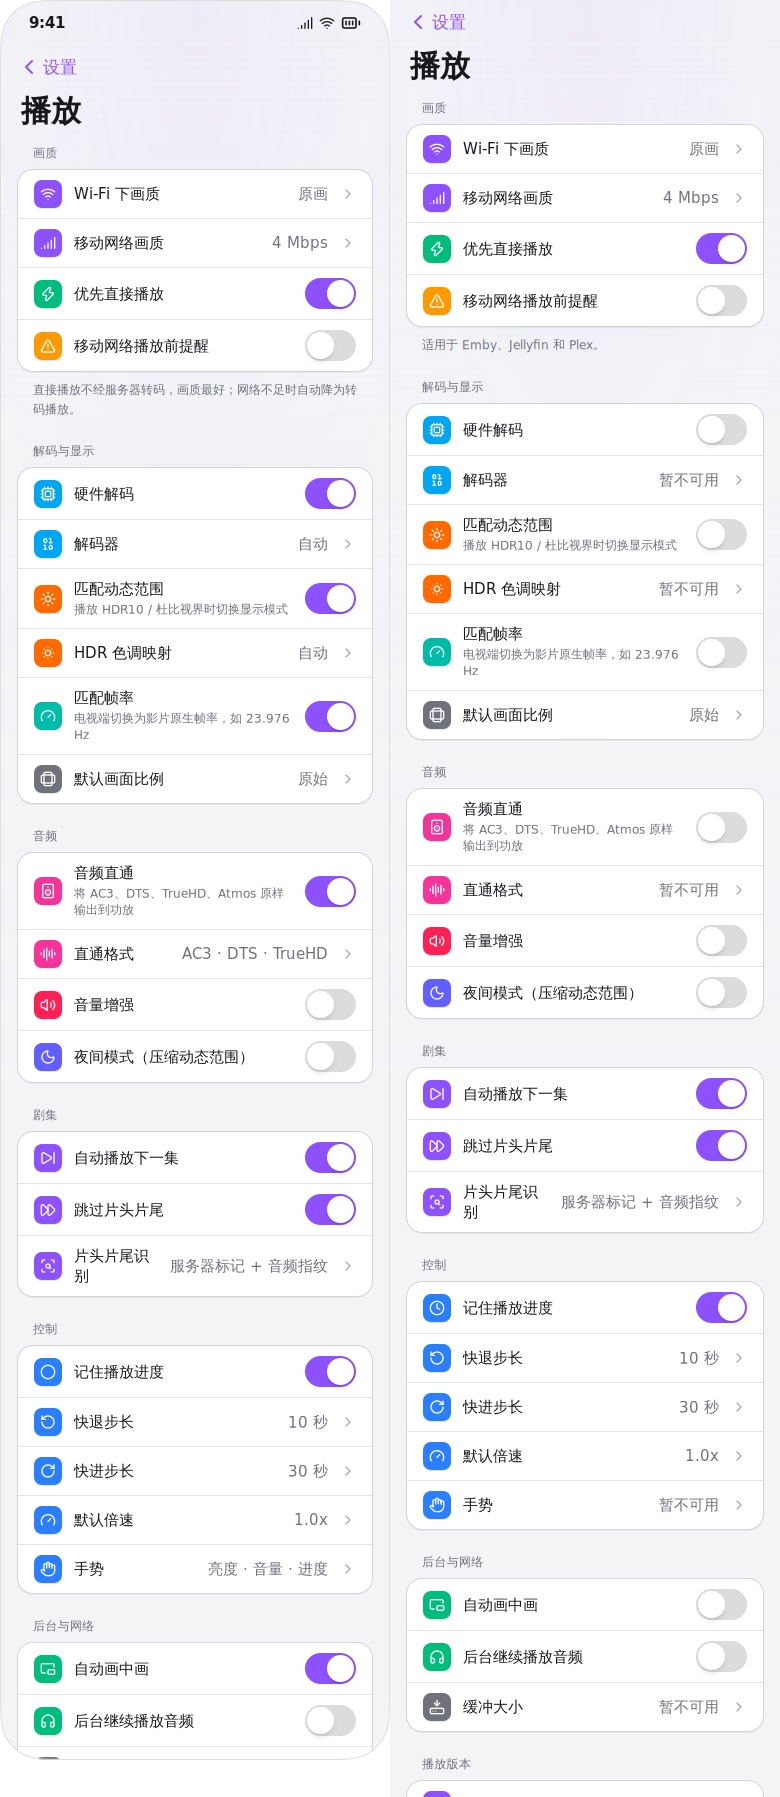
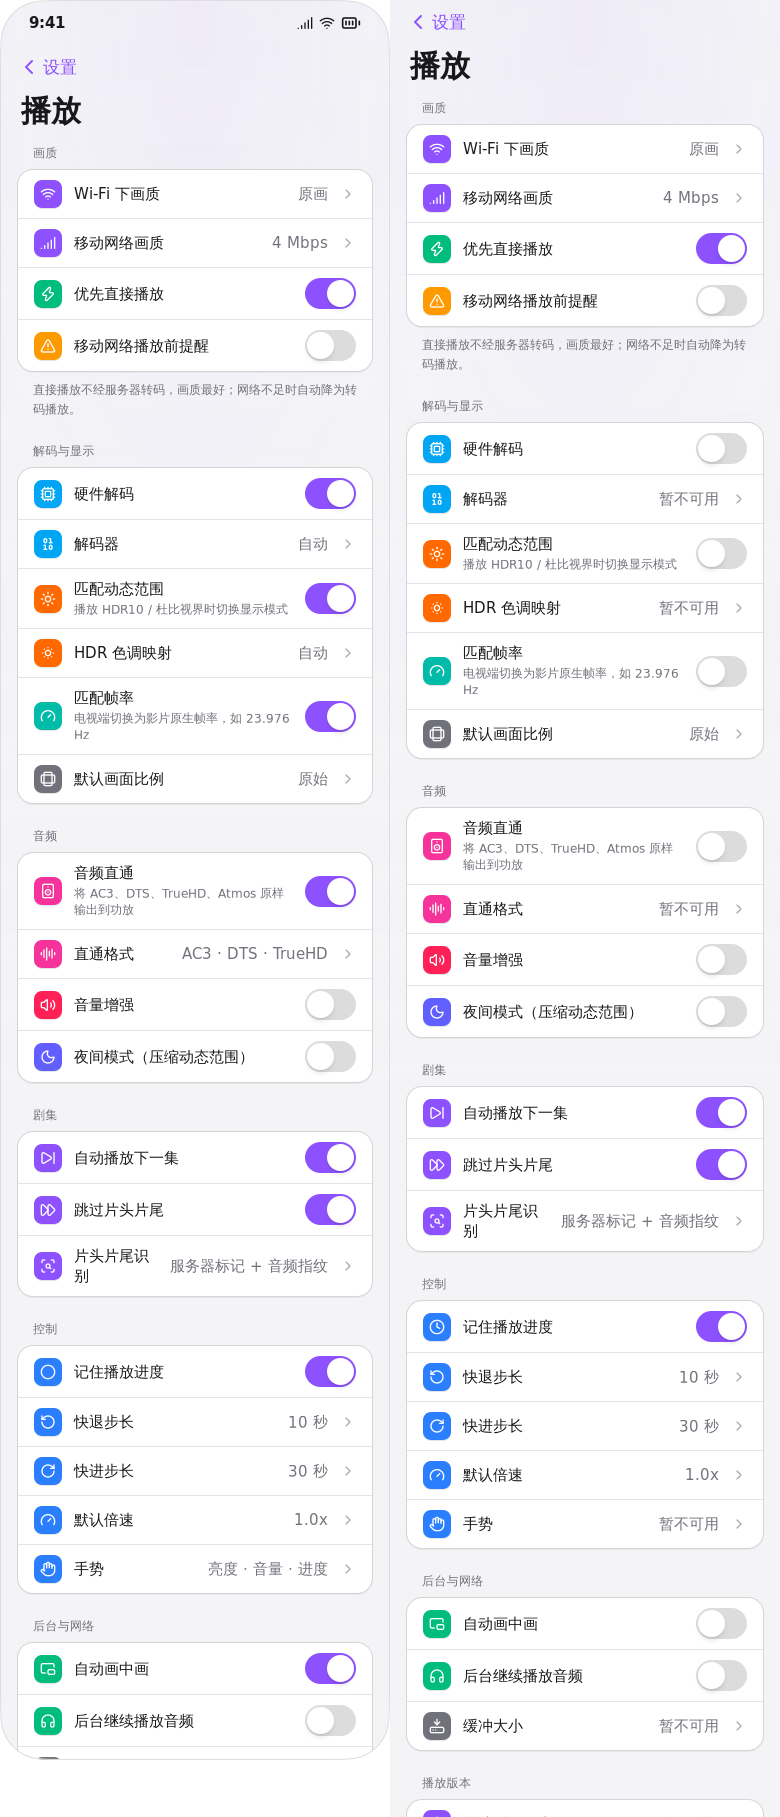
Apply the shared direct-play preference to streaming

diff --git a/player_quality_test.go b/player_quality_test.go
@@ -6,6 +6,7 @@ import (
 	"os"
 	"os/exec"
 	"slices"
+	"strings"
 	"testing"
 	"time"
 
@@ -142,6 +143,67 @@ func TestDockerPlaybackHeightLimit(t *testing.T) {
 				t.Fatalf("expected a decodable stream of at most %dp, got %+v, %v", height, measured, err)
 			}
 			t.Logf("decoded %dp from the %dp original", measured.Streams[0].Height, original.Rendition.Height)
+		})
+	}
+}
+
+func TestDockerPreferredPlaybackMethod(t *testing.T) {
+	if os.Getenv("WAYGU_TEST_SERVERS") != "1" || nsgotest.Target() != "" {
+		t.Skip("requires the Docker media servers and the simulated playback surface")
+	}
+	for _, provider := range []string{"emby", "jellyfin", "plex"} {
+		t.Run(provider, func(t *testing.T) {
+			for _, mode := range []struct {
+				name, preferences, container string
+			}{
+				{"direct", "", "mp4"},
+				{"transcode", `{"DisableDirectPlay":true}`, "hls"},
+			} {
+				t.Run(mode.name, func(t *testing.T) {
+					config, secrets := homeReviewSources(t)
+					_, item := reviewFixtureItem(t, config, secrets, provider, "Waygu Test Movie")
+					config[playbackPreferencesKey] = mode.preferences
+					app := nsgotest.Start(t, func(cx *core.Scope) core.Node {
+						shellIdiom.Provide(cx, core.IdiomPhone)
+						return Root(cx)
+					}, nsgotest.Size(390, 800), nsgotest.Offscreen(),
+						nsgotest.Storage(config), nsgotest.Secrets(secrets))
+					app.Press("id:tab-search")
+					app.Type("id:search-query", item.Title)
+					app.Press("id:search-source-" + provider)
+					result := "id:title-" + provider + "-" + item.ID
+					app.WaitFor(result, 10*time.Second)
+					app.Press(result)
+					app.WaitFor("id:detail-play", 10*time.Second)
+					app.Press("id:detail-play")
+					app.WaitFor("id:video-player", 15*time.Second)
+					video := app.FindMounted("id:video-player").Video
+					ctx, cancel := context.WithTimeout(t.Context(), 25*time.Second)
+					defer cancel()
+					raw, err := exec.CommandContext(ctx, "ffprobe", "-v", "error", "-select_streams", "v:0",
+						"-read_intervals", "%+1", "-show_frames",
+						"-show_entries", "format=format_name:stream=codec_name:frame=key_frame", "-of", "json", video.Source).Output()
+					if err != nil {
+						t.Fatalf("probe the player's stream: %v", err)
+					}
+					var measured struct {
+						Format struct {
+							Name string `json:"format_name"`
+						}
+						Streams []struct {
+							Codec string `json:"codec_name"`
+						}
+						Frames []struct{}
+					}
+					if err := json.Unmarshal(raw, &measured); err != nil || len(measured.Streams) != 1 || len(measured.Frames) == 0 ||
+						measured.Streams[0].Codec != "h264" || !slices.Contains(strings.Split(measured.Format.Name, ","), mode.container) {
+						t.Fatalf("wanted H.264 in %s, got %s (%v)", mode.container, raw, err)
+					}
+					app.Play("id:video-player", core.VideoInfo{Duration: item.Duration})
+					app.Press("id:close-player")
+					t.Logf("decoded H.264 in %s", mode.container)
+				})
+			}
 		})
 	}
 }

diff --git a/locales/catalog_gen.go b/locales/catalog_gen.go
@@ -677,6 +677,7 @@ const (
 	textSettingsWifiQuality
 	textSettingsCellularQuality
 	textSettingsPreferDirect
+	textSettingsDirectPlayHint
 	textSettingsCellularWarning
 	textPlaybackCellularConfirmTitle
 	textPlaybackCellularConfirmDescription
@@ -1556,6 +1557,7 @@ var keyOfText = [numTexts]string{
 	"settingsWifiQuality",
 	"settingsCellularQuality",
 	"settingsPreferDirect",
+	"settingsDirectPlayHint",
 	"settingsCellularWarning",
 	"playbackCellularConfirmTitle",
 	"playbackCellularConfirmDescription",
@@ -2433,6 +2435,7 @@ var textsEn = i18n.NewTexts(""+
 	"Wi-Fi quality"+
 	"Cellular quality"+
 	"Prefer direct play"+
+	"Direct play preserves the original quality. If the network is too slow, the server transcodes the video."+
 	"Warn before streaming on cellular"+
 	"Play on cellular data?"+
 	"Streaming uses your mobile data allowance."+
@@ -3307,6 +3310,7 @@ var textsEn = i18n.NewTexts(""+
 		13,
 		16,
 		18,
+		104,
 		33,
 		22,
 		42,
@@ -4184,6 +4188,7 @@ var textsZhHans = i18n.NewTexts(""+
 	"Wi-Fi 下画质"+
 	"移动网络画质"+
 	"优先直接播放"+
+	"直接播放不经服务器转码，画质最好；网络不足时自动降为转码播放。"+
 	"移动网络播放前提醒"+
 	"使用移动网络播放？"+
 	"播放会消耗你的移动数据流量。"+
@@ -5058,6 +5063,7 @@ var textsZhHans = i18n.NewTexts(""+
 		15,
 		18,
 		18,
+		93,
 		27,
 		27,
 		42,
@@ -10067,6 +10073,13 @@ func SettingsPreferDirect(cx *core.Scope) string { return For(cx).SettingsPrefer
 
 // SettingsPreferDirect is the package's SettingsPreferDirect in the language of msgs.
 func (msgs Messages) SettingsPreferDirect() string { return msgs.text(textSettingsPreferDirect) }
+
+// SettingsDirectPlayHint says "Direct play preserves the original quality. If the network is too slow, the server transcodes the video."
+// in the language the app shows under cx.
+func SettingsDirectPlayHint(cx *core.Scope) string { return For(cx).SettingsDirectPlayHint() }
+
+// SettingsDirectPlayHint is the package's SettingsDirectPlayHint in the language of msgs.
+func (msgs Messages) SettingsDirectPlayHint() string { return msgs.text(textSettingsDirectPlayHint) }
 
 // SettingsCellularWarning says "Warn before streaming on cellular"
 // in the language the app shows under cx.

diff --git a/phone_playback_preferences.go b/phone_playback_preferences.go
@@ -14,14 +14,15 @@ var playbackRates = []float32{0.5, 0.75, 1, 1.25, 1.5, 1.75, 2}
 var seekIntervals = []int{5, 10, 15, 30, 60}
 
 type playbackPreferences struct {
-	BackSeconds      int
-	NextSeconds      int
-	CellularBitrate  int
-	WarnOnCellular   bool
-	Rate             float32
-	Picture          string
-	DisableAutoPiP   bool
-	KeepIntroCredits bool
+	BackSeconds       int
+	NextSeconds       int
+	CellularBitrate   int
+	WarnOnCellular    bool
+	Rate              float32
+	Picture           string
+	DisableDirectPlay bool
+	DisableAutoPiP    bool
+	KeepIntroCredits  bool
 }
 
 func readPlaybackPreferences(storage core.Storage) playbackPreferences {
@@ -29,6 +30,7 @@ func readPlaybackPreferences(storage core.Storage) playbackPreferences {
 	if raw, ok := storage.GetItem(playbackPreferencesKey); ok {
 		saved := prefs
 		if json.Unmarshal([]byte(raw), &saved) == nil {
+			prefs.DisableDirectPlay = saved.DisableDirectPlay
 			prefs.DisableAutoPiP = saved.DisableAutoPiP
 			prefs.KeepIntroCredits = saved.KeepIntroCredits
 			prefs.WarnOnCellular = saved.WarnOnCellular
@@ -50,6 +52,16 @@ func readPlaybackPreferences(storage core.Storage) playbackPreferences {
 		}
 	}
 	return prefs
+}
+
+func (a *application) preferDirectPlay() bool {
+	return !a.playbackPrefs.Get().DisableDirectPlay
+}
+
+func (a *application) setPreferDirectPlay(enabled bool) error {
+	prefs := a.playbackPrefs.GetUntracked()
+	prefs.DisableDirectPlay = !enabled
+	return storeSettings(a.storage, playbackPreferencesKey, a.playbackPrefs, prefs)
 }
 
 func (p playbackPreferences) backStep() time.Duration {

diff --git a/phone_playback_settings.go b/phone_playback_settings.go
@@ -64,7 +64,7 @@ func (a *application) phonePlaybackSettings(cx *core.Scope) core.Node {
 	}
 
 	return phoneSettingsPage(cx, locales.PlaybackSettings(cx), a.back, "phone-playback-settings",
-		setupGroup(locales.PlayerQuality(cx), locales.StreamingQualityProviders(cx),
+		setupGroup(locales.PlayerQuality(cx), locales.SettingsDirectPlayHint(cx),
 			phoneSettingChoice(cx, phoneSetting{locales.SettingsWifiQuality(cx), "", "bg-violet-500", lucide.Wifi},
 				"phone-streaming-quality", quality, a.bitrateLimit.Get, func(value int) {
 					failure.Set(storeSettingValue(a.storage, bitrateKey, a.bitrateLimit, value, strconv.Itoa(value)))
@@ -73,7 +73,9 @@ func (a *application) phonePlaybackSettings(cx *core.Scope) core.Node {
 				"phone-cellular-quality", quality, func() int { return a.playbackPrefs.Get().CellularBitrate },
 				func(value int) { save(func(p *playbackPreferences) { p.CellularBitrate = value }) }),
 			(phoneSetting{locales.SettingsPreferDirect(cx), "", "bg-emerald-500", lucide.Zap}).
-				toggle(cx, "", func() bool { return true }, nil),
+				toggle(cx, "phone-prefer-direct", a.preferDirectPlay, func(enabled bool) {
+					failure.Set(a.setPreferDirectPlay(enabled))
+				}),
 			(phoneSetting{locales.SettingsCellularWarning(cx), "", "bg-amber-500", lucide.TriangleAlert}).
 				toggle(cx, "phone-cellular-warning", func() bool { return a.playbackPrefs.Get().WarnOnCellular },
 					func(enabled bool) { save(func(p *playbackPreferences) { p.WarnOnCellular = enabled }) }),

diff --git a/phone_player_settings_test.go b/phone_player_settings_test.go
@@ -38,6 +38,13 @@ func TestPhonePlaybackAndSubtitleSettingsReview(t *testing.T) {
 			app.WaitFor("id:phone-streaming-quality >> text:原画", time.Second)
 			app.WaitFor("id:phone-cellular-quality >> text:4 Mbps", time.Second)
 			capture("settings-playback")
+			if !app.Find("id:phone-prefer-direct").Props.Checked {
+				t.Fatal("legacy settings should prefer direct play")
+			}
+			app.Press("id:phone-prefer-direct")
+			if !readPlaybackPreferences(app.Storage()).DisableDirectPlay {
+				t.Fatal("turning off direct play was not saved")
+			}
 			app.Press("id:phone-cellular-quality")
 			app.WaitFor("role:option 8 Mbps", time.Second)
 			app.Press("role:option 8 Mbps")
@@ -70,6 +77,10 @@ func TestPhonePlaybackAndSubtitleSettingsReview(t *testing.T) {
 			app.Press("role:option 15 秒")
 			if p := readPlaybackPreferences(app.Storage()); p.Rate != 1.5 || p.NextSeconds != 15 || p.BackSeconds != 10 {
 				t.Fatalf("saved playback controls = %+v", p)
+			}
+			app.Press("id:phone-prefer-direct")
+			if readPlaybackPreferences(app.Storage()).DisableDirectPlay {
+				t.Fatal("turning direct play back on was not saved")
 			}
 			app.Press("id:back")
 			app.Press("id:open-phone-subtitle-settings")

diff --git a/internal/media/browser_playback.go b/internal/media/browser_playback.go
@@ -123,8 +123,6 @@ func (m *mediaBrowser) Playback(ctx context.Context, item Item, options Playback
 		params.Set("EnableDirectPlay", "false")
 		params.Set("EnableDirectStream", "false")
 		body["EnableDirectPlay"], body["EnableDirectStream"] = false, false
-	}
-	if options.MaxHeight > 0 {
 		body["AllowVideoStreamCopy"] = false
 	}
 	if options.SourceID != "" {
@@ -194,9 +192,12 @@ func (m *mediaBrowser) browserStream(item Item, source browserSource, sessionID 
 		stream.URL = original
 		stream.Method = DirectPlay
 	} else if source.TranscodingUrl != "" {
-		var limits url.Values
+		limits := url.Values{}
+		if options.ForceTranscode || options.MaxHeight > 0 {
+			limits.Set("AllowVideoStreamCopy", "false")
+		}
 		if options.MaxHeight > 0 {
-			limits = url.Values{"MaxHeight": {strconv.Itoa(options.MaxHeight)}, "AllowVideoStreamCopy": {"false"}}
+			limits.Set("MaxHeight", strconv.Itoa(options.MaxHeight))
 		}
 		stream.URL = m.mediaURL(source.TranscodingUrl, limits)
 		stream.Headers = m.auth()

diff --git a/desktop_settings_playback.go b/desktop_settings_playback.go
@@ -52,7 +52,8 @@ func (a *application) desktopSettingsPlayback(cx *core.Scope) core.Node {
 		desktopFormRow(quality, desktopFormSelect(cx, "bitrate-limit", quality, desktopBitrates(cx), a.bitrateLimit.Get, func(value int) {
 			failure.Set(storeSettingValue(a.storage, bitrateKey, a.bitrateLimit, value, strconv.Itoa(value)))
 		})),
-		disabledSwitch(locales.SettingsPreferDirect(cx), true),
+		desktopFormRow(locales.SettingsPreferDirect(cx), desktopFormToggle(cx, "desktop-prefer-direct", locales.SettingsPreferDirect(cx),
+			a.preferDirectPlay, func(enabled bool) { failure.Set(a.setPreferDirectPlay(enabled)) })),
 		unavailable(locales.SettingsMatchHDR(cx)),
 		unavailable(locales.SettingsToneMap(cx)),
 		disabledSwitch(locales.SettingsMatchRate(cx), false),

diff --git a/player.go b/player.go
@@ -57,6 +57,7 @@ func (a *application) player(cx *core.Scope, current route) core.Node {
 	showTVHints := sync.OnceValue(a.showTVPlayerHints)
 	noServerSubtitles := -1
 	options, remembered := a.initialPlaybackOptions(current)
+	options.ForceTranscode = prefs.DisableDirectPlay
 	options.SubtitleIndex = &noServerSubtitles
 	subtitlePrefs := a.subtitlePrefs.GetUntracked()
 	restrictions := core.Untracked(cx, a.parentalRules)
@@ -374,6 +375,7 @@ func (a *application) playerView(cx *core.Scope, current route, initial playerMe
 			return
 		}
 		options.SubtitleIndex = &noServerSubtitles
+		options.ForceTranscode = prefs.DisableDirectPlay
 		previous := medium.GetUntracked()
 		preset := options.MaxBitrate
 		options.MaxHeight = playbackPresetHeight(preset)

diff --git a/desktop_settings_review_test.go b/desktop_settings_review_test.go
@@ -50,6 +50,13 @@ func TestDesktopSettingsWindow(t *testing.T) {
 		t.Fatalf("saved filter = %q", value.Keywords)
 	}
 	window.Press("id:desktop-settings-tab-playback")
+	if !window.Find("id:desktop-prefer-direct").Props.Checked {
+		t.Fatal("the desktop should prefer direct play by default")
+	}
+	window.Press("id:desktop-prefer-direct")
+	if !readPlaybackPreferences(app.Storage()).DisableDirectPlay {
+		t.Fatal("the desktop switch did not store the shared direct play preference")
+	}
 	for _, change := range []struct{ id, label string }{
 		{"desktop-playback-engine", "Built-in mpv"},
 		{"desktop-seek-step", "Back 10s / forward 30s"},

diff --git a/docs/ui-review/phone-player-settings.md b/docs/ui-review/phone-player-settings.md
@@ -10,6 +10,8 @@
 
 The quality group shows the Wi-Fi and mobile data values from separate preferences. The defaults are Original and 4 Mbps. Changing one value leaves the other at its saved value. When the mobile data warning is enabled, opening a title on cellular waits for Continue playing or Cancel before starting playback.
 
+Prefer direct play defaults to on and shares its saved value with desktop settings. Turning it off asks Emby, Jellyfin and Plex to transcode from the start, including after a version or audio change. With it on, the selected bitrate, rendition and decoder capabilities can still require transcoding. Throughput measurement and switching playback methods midstream remain pending. [Docker playback evidence](../../integration/servers/TESTING.md#streaming-quality)
+
 ![Cellular playback confirmation on an Android phone emulator](images/phone-cellular-playback-warning.png)
 
 The Pixel 7 emulator check used Android 15. With Wi-Fi active the fixture requested the saved 1080p and 20 Mbps Wi-Fi profile. After switching the emulator's default network to cellular, the same test requested the saved 720p and 8 Mbps cellular profile. The screenshot records the warning before a stream opens. The test checks Continue and Cancel through the native screen. [Android test commands](../../build/android/PACKAGING.md)
@@ -28,7 +30,7 @@ The Pixel 7 emulator check used Android 15. With Wi-Fi active the fixture reques
 | --- | --- |
 | Header and groups | Both app pages use the 44 pt back row, 30 pt title, 16 pt group margin, 28 pt badges and 51 × 31 pt switches. GTK lacks the design's mobile status bar and rounded device frame. App content starts about 44 pt higher. |
 | Playback quality and version | The player picks the network profile when opening a streamed title. Its presets cap the resolution and bitrate on Emby, Jellyfin and Plex. The app retains a playback version section below the designed groups. The reference frame clips the end of the background and network group. |
-| Playback controls | The two network quality values, cellular warning, auto-next, skipping intros and credits, speed, rewind and forward intervals, and picture mode save immediately. Direct play preference and progress reporting are fixed on. Decoder and HDR settings, passthrough, volume boost, night mode, gestures, background audio, and buffer controls still need implementation. |
+| Playback controls | The two network quality values, direct play preference, cellular warning, auto-next, skipping intros and credits, speed, rewind and forward intervals, and picture mode save immediately. Progress reporting is fixed on. Decoder and HDR settings, passthrough, volume boost, night mode, gestures, background audio, and buffer controls still need implementation. |
 | Intro and credit detection | The episode group has the violet badge and the 51 × 31 pt switch shown in both appearances. The detection row displays the design’s server-marker and audio-fingerprint label. The player uses typed markers and named chapters first. A missing range can be inferred from recurring audio in two other episodes from the same season. [Playback evidence](phone-player.md#intro-and-credit-skips) |
 | Picture in Picture | Automatic entry is wired to the iOS video backend. The GTK capture shows the unavailable switch. iPhone and iPad behavior remains to be checked. |
 | Subtitle languages and style | The first language with a matching text track wins. The app previews the chosen size, color, background and position, uses the system font and provides a custom color picker. The Scenra preview has an unresolved image and both captures show its placeholder. Font selection, outline customization, Simplified and Traditional conversion, bilingual display, ASS switches, online subtitle services and sidecar matching remain pending. Plain-text preferences apply to the app's caption overlay. |

diff --git a/docs/roadmap.md b/docs/roadmap.md
@@ -19,7 +19,7 @@ The Scenra files in `design/` define the product. The current app connects to Em
 - The player switches Emby, Jellyfin and Plex audio at the current position, supports local SRT and WebVTT files, text subtitles from Emby and Jellyfin, external SRT and WebVTT from Plex, subtitle delay and playback speed on capable backends.
 - The landscape phone player has touch gestures for play and pause, seeking, temporary 2× speed, picture dimming and playback volume. The timeline displays chapter marks and server seek previews. The player offers six picture modes, chapter jumps, A/B repeat and a sleep timer that follows autoplay. Danmaku starts below the header and system insets across the picture modes. Add native decoder ranges to the phone timeline when the playback API exposes them. Frame export and audio/video sync remain open. Verify orientation, gestures and Picture in Picture on phones. [Player comparison](ui-review/phone-player.md)
 - The DLNA sender discovers LAN renderers or accepts an IP or description URL, protects media server credentials with a receiver-specific proxy, and resumes locally at the receiver's progress. Emby, Jellyfin and Plex can provide an HLS stream to renderers that advertise it. Add AirPlay and Chromecast, remote track changes, and target-device verification. [Casting comparison](ui-review/casting.md)
-- Phone settings save separate Wi-Fi and cellular playback profiles, a cellular confirmation, default speed, seek intervals, picture mode, ordered subtitle languages and a preferred audio language. The player reads the transport when opening a stream. Text captions use the chosen scale, color, background and position. Automatic Picture in Picture is wired to the iOS video backend and needs device verification. [Phone settings comparison](ui-review/phone-player-settings.md#playback)
+- Phone settings save separate Wi-Fi and cellular playback profiles, a cellular confirmation, default speed, seek intervals, picture mode, ordered subtitle languages and a preferred audio language. The player reads the transport when opening a stream. Phone and desktop share a preference for direct play or server transcoding on Emby, Jellyfin and Plex. Text captions use the chosen scale, color, background and position. Automatic Picture in Picture is wired to the iOS video backend and needs device verification. [Phone settings comparison](ui-review/phone-player-settings.md#playback)
 - The desktop Settings window uses a searchable sidebar and includes General, Playback, Danmaku and Media Sources. It saves startup, language, engine, bitrate, seek and countdown preferences, shows the media server connection status and manages library visibility. The [GTK comparisons](ui-review/desktop-settings.md) track unavailable settings and remaining platform verification.
 - The desktop player has a seek preview and a comment heatmap, player shortcuts, an episode list, danmaku controls, and live libmpv information. Its timeline marks the intervals libmpv can seek in the demuxer cache and leaves the gaps visible. It saves comments locally for each title. [Desktop timeline comparison](ui-review/desktop-player.md#episodes-and-timeline)
 - Desktop direct play with libmpv switches embedded audio and subtitles in place, including Flymoo streams and embedded Plex subtitles. It supports subtitle delay alongside the independent danmaku overlay.

diff --git a/integration/servers/TESTING.md b/integration/servers/TESTING.md
@@ -35,7 +35,13 @@ Stop the fixture services with `docker compose -f integration/servers/compose.ya
 
 With the same three fixtures, `TestDockerOfflineDownloadReview` saves an original video from the detail page, restarts the app with the saved data, disconnects the test gateway, opens the cached movie from the library and probes the local file with `ffprobe`. The headless case reconnects and verifies the offline checkpoint in the server's detail response. GTK also advances the native playback clock while the gateway refuses requests. The download store fixture checks byte ranges after cancellation, verifies the supplied response MD5 and final SHA-256, and checks the space limit and deletion.
 
+## Streaming quality
+
+`TestDockerPreferredPlaybackMethod` opens the same title through the phone player on Emby, Jellyfin and Plex with Prefer direct play enabled and disabled. `ffprobe` decodes frames from the player's MP4 and HLS URLs. The phone and desktop settings tests exercise the shared preference and verify that it is saved.
+
 `TestDockerPlaybackHeightLimit` requests a height limit of 180p with a 4 Mbps bitrate ceiling from Emby, Jellyfin and Plex. The 360p fixture is already below the bitrate ceiling. The test opens the authenticated HLS stream through the app proxy and measures its decoded resolution with `ffprobe`. `TestPlaybackQualityChangesAtCurrentPosition` checks the phone preset arguments along with the selected version, audio track, paused state and seek position. `TestPlexHLSStartsWithTranscodeDecision` checks that the Plex decision call and HLS request share the session and quality limits. [Quality panel comparison](../../docs/ui-review/phone-player.md#subtitles-and-audio) · [Plex Universal Transcoder](https://developer.plex.tv/pms/#tag/Transcoder)
+
+## Catalog and player fixtures
 
 `TestDockerMovieFeatures` reads local extras and recommendations from all three servers. Emby and Jellyfin index the generated trailer and featurette and resolve both clips for playback. The unclaimed Plex fixture returns an empty extras list. `TestDockerPhoneMovieReview` opens the Emby trailer in the native player, follows a recommendation from the same library, and tests the cast and playback controls. When adding the extras to an existing fixture library, rescan it with `bootstrap.py` before running the phone review. [Emby library API](https://dev.emby.media/reference/RestAPI/UserLibraryService.html) · [Jellyfin library API](https://typescript-sdk.jellyfin.org/classes/generated-client.LibraryApi.html) · [Plex Media Server API](https://developer.plex.tv/pms/)
 
